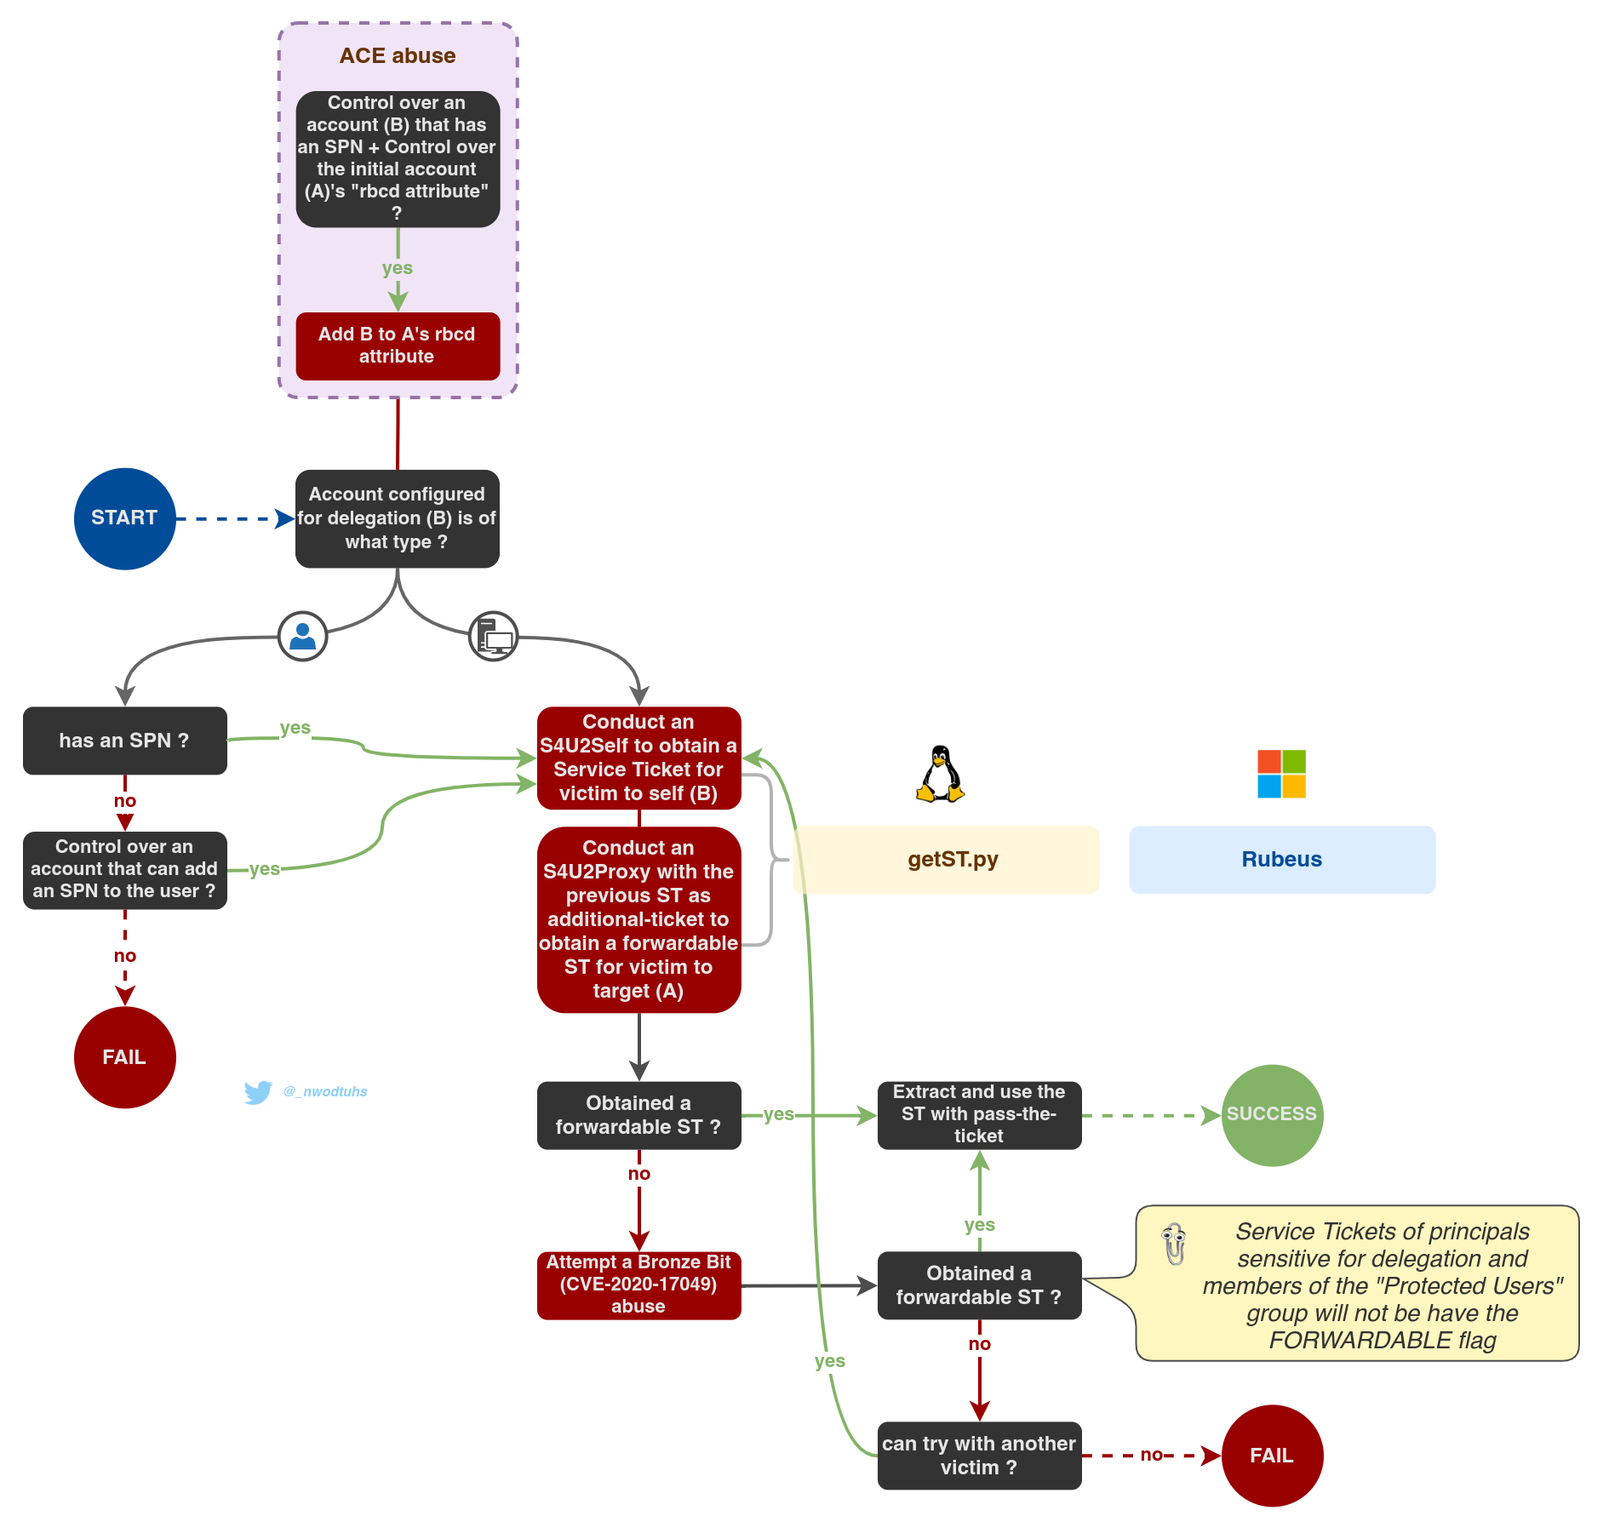
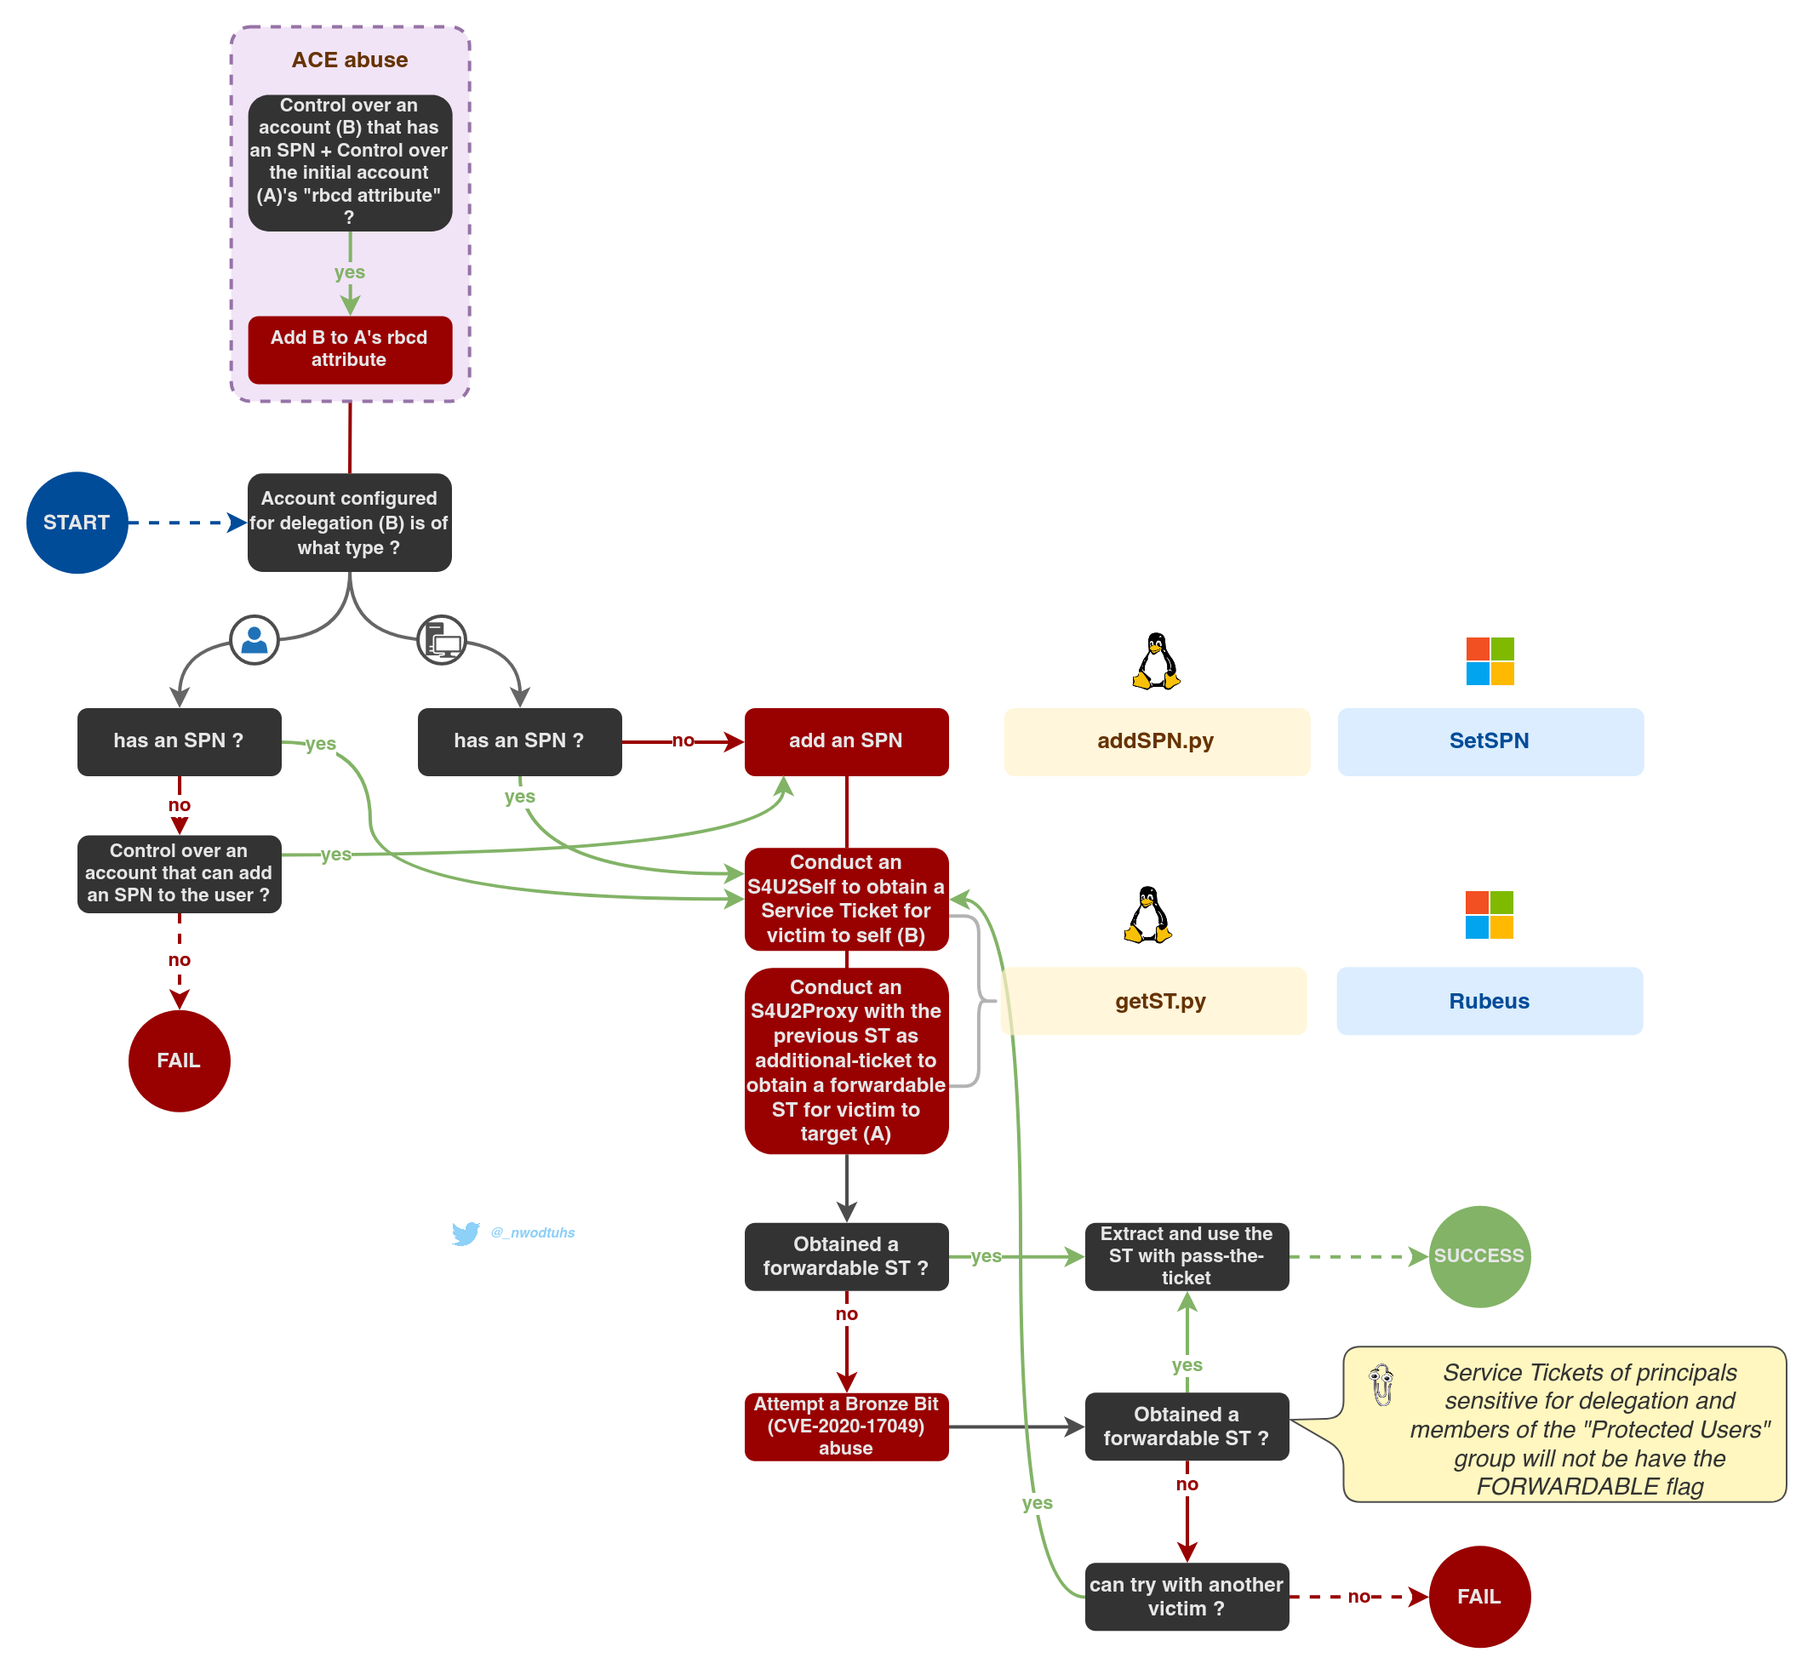
GitBook: [#713] SID History

Changed region(s): [[0.0, 0.0, 0.9989, 0.9912], [0.1561, 0.6814, 0.2185, 0.7124]]

diff --git a/ad/movement/kerberos/README.md b/ad/movement/kerberos/README.md
@@ -23,7 +23,34 @@ Kerberos is an authentication protocol based on tickets. It basically works like
 3. Client uses the ST (Service Ticket) to access a service. The client request to the service is called `AP-REQ`, the service answer is called `AP-REP`.
 4. Both tickets (TGT and ST) usually contain an encrypted PAC (Privilege Authentication Certificate), a set of information that the target service will read to decide if the authentication user can access the service or not (user ID, group memberships and so on).
 
-A Service Ticket (ST) allows access to a specific service. The TGT is used to ask for STs. TGTs can be obtained when supplying a valid secret key. That key can be one of the following (read [more](https://www.sstic.org/media/SSTIC2014/SSTIC-actes/secrets\_dauthentification\_pisode\_ii\_\_kerberos\_cont/SSTIC2014-Article-secrets\_dauthentification\_pisode\_ii\_\_kerberos\_contre-attaque-bordes\_2.pdf)).
+A Service Ticket (ST) allows access to a specific service.&#x20;
+
+{% hint style="info" %}
+When requesting a service ticket, the client (`cname`) specifies the service it wants to obtain access to by supplying it's `sname`, which can be one of 9 types ([RPC 4120 section 6.2](https://www.rfc-editor.org/rfc/rfc4120#section-6.2)). Shortly put, the following formats are supported:
+
+* servicePrincipalName
+* userPrincipalName
+* sAMAccountName
+* sAMAccountName@DomainNetBIOSName
+* sAMAccountName@DomainFQDN
+* DomainNetBIOSName\sAMAccountName
+* DomainFQDN\sAMAccountName
+
+> Note that if you use the _SRV01_ string as a sAMAccountName, and the _SRV01_ account does not exist, and the _SRV01$_ account exists, this name will be treated as a principal name of the _SRV01$_ account.
+>
+> _(_[_swarm.ptsecurity.com_](https://swarm.ptsecurity.com/kerberoasting-without-spns)_)_
+
+On a good note, if the service name is specified as something else than an SPN (i.e. SAN, UPN), Kerberos will basically deliver service tickets if the requested service
+
+* has a trailing `$` in the requested SAN (`sAMAccountName`)
+* or has at least one SPN (`servicePrincipalName`)
+
+If the service ticket is requested through a specific [U2U (User-to-User)](./#user-to-user-authentication) request, then neither of the conditions above will be required, the target ~~service~~ user can be specified by its UPN (`userPrincipalName`).
+
+_(sources:_ [_Twitter_](https://twitter.com/SteveSyfuhs/status/1613956603807690753) _and_ [_\[MS-KILE\] section 3.3.5.1.1_](https://learn.microsoft.com/en-us/openspecs/windows\_protocols/ms-kile/a7ad31b0-37a4-4344-b9a7-01d4d086097e)_)._
+{% endhint %}
+
+The TGT is used to ask for STs. TGTs can be obtained when supplying a valid secret key. That key can be one of the following (read [more](https://www.sstic.org/media/SSTIC2014/SSTIC-actes/secrets\_dauthentification\_pisode\_ii\_\_kerberos\_cont/SSTIC2014-Article-secrets\_dauthentification\_pisode\_ii\_\_kerberos\_contre-attaque-bordes\_2.pdf)).
 
 | Key name (a.k.a. etype) | Details on key calculation                     |
 | ----------------------- | ---------------------------------------------- |
@@ -76,13 +103,13 @@ If an attacker finds himself in a man-in-the-middle position, effectively captur
 [asreqroast.md](asreqroast.md)
 {% endcontent-ref %}
 
-When attackers have a foothold in the domain (i.e. valid domain credentials), they have the (intended) ability to request a service ticket (ST) for any valid SPN (ServicePrincipalName). The ST being encrypted with the service account's NT hash, when that service account's password is weak, it is then possible to crack the ST offline in a an attempt to find the password. This is called Kerberoasting.
+When attackers have a foothold in the domain (i.e. valid domain credentials), they have the (intended) ability to request a service ticket (ST) for any valid SPN (ServicePrincipalName), or SAN (samAccountName). The ST being encrypted with the service account's NT hash, when that service account's password is weak, it is then possible to crack the ST offline in an attempt to find the password. This is called Kerberoasting. On a side note, obtaining a service ticket for a service specified by its SAN in an attempt to Kerberoast the account will only work if the service has at least one SPN.
 
 {% content-ref url="kerberoast.md" %}
 [kerberoast.md](kerberoast.md)
 {% endcontent-ref %}
 
-As it turns out, AS-REQ messages can not only be used to request TGTs but can be invoked to ask for Service Tickets as well. One of the consequences of this is that Kerberoast can be conducted without prior foothold to the domain if the attacker knows the service to target (its SPN or name) as well as an ASREProastable username: [#without-pre-authentication](kerberoast.md#without-pre-authentication "mention").
+As it turns out, AS-REQ messages can not only be used to request TGTs but can be invoked to ask for Service Tickets as well. One of the consequences of this is that Kerberoast can be conducted without prior foothold to the domain if the attacker knows the service to target (its SPN or name) as well as an ASREProastable username:  Kerberoast[#without-pre-authentication](kerberoast.md#without-pre-authentication "mention").
 
 ## Delegations
 

diff --git a/ad/persistence/sid-history.md b/ad/persistence/sid-history.md
@@ -1,5 +1,80 @@
-# 🛠 SID History
+# SID History
+
+## Theory
+
+The **SID (Security Identifier)** is a unique identifier that is assigned to each security principal (e.g. user, group, computer). It is used to identify the principal within the domain and is used to control access to resources.
+
+The **SID history** is a property of a user or group object that allows the object to retain its SID when it is migrated from one domain to another as part of a domain consolidation or restructuring. When an object is migrated to a new domain, it is assigned a new SID in the target domain. The SID history allows the object to retain its original SID, so that access to resources in the source domain is not lost.
+
+This mechanism can also be abused as a means of persistence: adding the SID of a privileged account or group to the SID-History attribute of a controlled account grants rights associated with account/group of which the SID is added.
+
+For instance, the SID of an account with Domain Admin rights can be added to a normal user SID History to grant them Domain Admin rights (the rights would not be granted per say, but the modified account would be treated as domain admin when checking rights).
+
+## Practice
 
 {% hint style="danger" %}
-**This is a work-in-progress**. It's indicated with the 🛠 emoji in the page name or in the category name. Wanna help? Please reach out to me: [@\_nwodtuhs](https://twitter.com/\_nwodtuhs)
+There is currently no way to exploit this technique purely from a distant UNIX-like machine, as it requires some operations on specific Windows processes' memory.
 {% endhint %}
+
+### Pre-Windows 2016
+
+Modifying the SID History attribute of an object can be done using mimikatz, with the [`sid::patch`](https://tools.thehacker.recipes/mimikatz/modules/sid/patch), [`sid::add`](https://tools.thehacker.recipes/mimikatz/modules/sid/add) and [`sid::lookup`](https://tools.thehacker.recipes/mimikatz/modules/sid/lookup) commands.
+
+Mimikatz cannot be used on 2016+ domain controllers for that purpose, due to an error with [`sid::patch`](https://tools.thehacker.recipes/mimikatz/modules/sid/patch) ([https://github.com/gentilkiwi/mimikatz/issues/348](https://github.com/gentilkiwi/mimikatz/issues/348))
+
+{% hint style="warning" %}
+Mimikatz must be launched with at least enough privileges to perform the [`privilege::debug`](https://tools.thehacker.recipes/mimikatz/modules/privilege/debug) command (i.e. domain admin or `SYSTEM`).
+{% endhint %}
+
+```batch
+# Generic command
+mikikatz.exe "privilege::debug" "sid::patch" "sid::add /sam:UserRecievingTheSID /new:SIDOfTheTargetedUserOrGroup"
+
+# Example 1 : Use this command to inject the SID of built-in administrator account to the SID-History attribute of AttackerUser
+mikikatz.exe "privilege::debug" "sid::patch" "sid::add /sam:AttackerUser /new:Builtin\administrators "
+
+# Example 2 : Use sid::lookup to retrieve the SID of an account and inject it to the SID-History attribute of AttackerUser
+mikikatz.exe "sid::lookup /name:InterestingUser"
+mikikatz.exe "privilege::debug" "sid::patch" "sid::add /sam:AttackerUser /new:SIDOfInterestingUser"
+```
+
+### Post-Windows 2016
+
+The only known way to add a SID to the SID History attribute of an account on a Windows domain controller 2016 and above is to use the Powershell module [DSInternals](https://github.com/MichaelGrafnetter/DSInternals). This method also works for Pre-Windows 2016 domain controllers.
+
+{% hint style="danger" %}
+The NTDS service must be stopped at some point and restarted for this procedure to work, which can cause various issues. Proceed with care, avoid production systems.
+{% endhint %}
+
+```powershell
+# Install DSInternals on the domain controller
+Install-Module -Name DSInternals
+
+# Find the account SID you want to inject
+Get-ADUser -Identity $InterestingUser
+
+# Stop the NTDS service
+Stop-service NTDS -force
+
+# Inject the SID into the SID History attribute
+Add-ADDBSidHistory -samaccountname AttackerUser -sidhistory $SIDOfInterestingUser -DBPath C:\Windows\ntds\ntds.dit
+
+# Start the NTDS service
+Start-service NTDS
+```
+
+## Resources
+
+{% embed url="https://learn.microsoft.com/en-us/windows/win32/adschema/a-sidhistory" %}
+
+{% embed url="https://attack.mitre.org/techniques/T1134/005/" %}
+
+{% embed url="https://adsecurity.org/?p=1772" %}
+
+{% embed url="https://forum.winbatch.com/index.php?topic=1545.0" %}
+
+{% embed url="https://learn.microsoft.com/en-us/windows/win32/ad/using-dsaddsidhistory#operational-constraints" %}
+
+{% embed url="https://learn.microsoft.com/en-us/windows/win32/api/ntdsapi/nf-ntdsapi-dsaddsidhistorya" %}
+
+{% embed url="https://secframe.com/blog/a-sidhistory-attack-marching-onto-a-dc/" %}

diff --git a/ad/movement/kerberos/kerberoast.md b/ad/movement/kerberos/kerberoast.md
@@ -6,9 +6,11 @@ description: MITRE ATT&CK™ Sub-technique T1558.003
 
 ## Theory
 
-When asking the KDC (Key Distribution Center) for a Service Ticket (ST), the requesting user needs to send a valid TGT (Ticket Granting Ticket) and the SPN (Service Principal Name) of the service wanted. If the TGT is valid, and if the SPN exists, the KDC sends the ST to the requesting user.
+When asking the KDC (Key Distribution Center) for a Service Ticket (ST), the requesting user needs to send a valid TGT (Ticket Granting Ticket) and the service name (`sname`) of the service wanted. If the TGT is valid, and if the service exists, the KDC sends the ST to the requesting user.
 
-The ST is encrypted with the requested service account's NT hash. If an attacker has a valid TGT and knows a SPN for a service, he can request a ST for this service and crack it offline later in an attempt to retrieve that service account's password.
+Multiple formats are accepted for the `sname` field: servicePrincipalName (SPN), sAMAccountName (SAN), userPrincipalName (UPN), etc. (see [Kerberos tickets](./#tickets)).
+
+The ST is encrypted with the requested service account's NT hash. If an attacker has a valid TGT and knows a service (by its SAN or SPN), he can request a ST for this service and crack it offline later in an attempt to retrieve that service account's password.
 
 In most situations, services accounts are machine accounts, which have very complex, long, and random passwords. But if a service account, with a human-defined password, has a SPN set, attackers can request a ST for this service and attempt to crack it offline. This is Kerberoasting.
 
@@ -23,7 +25,9 @@ Unlike [ASREProasting](asreproast.md), this attack can only be carried out with 
 The [Impacket](https://github.com/SecureAuthCorp/impacket) script [GetUserSPNs](https://github.com/SecureAuthCorp/impacket/blob/master/examples/GetUserSPNs.py) (Python) can perform all the necessary steps to request a ST for a service given its SPN (or name) and valid domain credentials.
 
 {% hint style="info" %}
-you can perform the Kerberoasting attack without knowing any SPN of the target account. But the existence of at least one SPN for the target account will continue to be needed.
+The Kerberoasting attack can be conducted without knowing any SPN of the target account, since a service ticket can be request for as long as the service's SAN (`sAMAccountName`) is known. ([swarm.ptsecurity.com](https://swarm.ptsecurity.com/kerberoasting-without-spns/))
+
+Nota bene, Kerberos can deliver service tickets even if the service has no SPN at all, but then the service's SAN must end with `$`, and in this case it's hard to know for sure if the service's password is defined by a human. Kerberoast attacks usually target user accounts with at least one SPN (`servicePrincipalName`) since they probably have human-defined passwords (sources: [Twitter](https://twitter.com/SteveSyfuhs/status/1613956603807690753) and [\[MS-KILE\] section 3.3.5.1.1](https://learn.microsoft.com/en-us/openspecs/windows\_protocols/ms-kile/a7ad31b0-37a4-4344-b9a7-01d4d086097e)).
 {% endhint %}
 
 ```bash
@@ -123,3 +127,5 @@ Controlling a member of the [Account Operators](../domain-settings/builtin-group
 {% embed url="https://adsecurity.org/?p=2011" %}
 
 {% embed url="https://www.semperis.com/blog/new-attack-paths-as-requested-sts/" %}
+
+{% embed url="https://swarm.ptsecurity.com/kerberoasting-without-spns/" %}

diff --git a/ad/movement/ntlm/relay.md b/ad/movement/ntlm/relay.md
@@ -12,11 +12,11 @@ The NTLM authentication messages are embedded in the packets of application prot
 
 The chart below sums up the expected behavior of cross-protocols relay attacks depending on the mitigations in place ([original here](https://beta.hackndo.com/ntlm-relay/)). All the tests and results listed in the chart were made using [Impacket](https://github.com/SecureAuthCorp/impacket/)'s [ntlmrelayx](https://github.com/SecureAuthCorp/impacket/blob/master/examples/ntlmrelayx.py) (Python).
 
-![](<../../../.gitbook/assets/ntlm\_relau\_mitigation\_chart (1).png>)
+![](../../../.assets/ntlm\_relau\_mitigation\_chart.png)
 
 The following mindmap sums up the overall attack paths of NTLM relay. [Gabriel Prudhomme](https://twitter.com/vendetce) explains how to read it here: [BHIS | Coercions and Relays – The First Cred is the Deepest](https://youtu.be/b0lLxLJKaRs?t=480) (at 08:00).
 
-![](<../../../.gitbook/assets/NTLM relay.png>)
+![](<../../../.gitbook/assets/NTLM relay.drawio.png>)
 
 ### Session signing
 

diff --git a/ad/movement/kerberos/forged-tickets/golden.md b/ad/movement/kerberos/forged-tickets/golden.md
@@ -61,7 +61,7 @@ In these situations, testers can specify all the groups ids when creating the ti
 Another solution to this is to look for a specific user with appropriate rights to impersonate and use [GoldenCopy](https://github.com/Dramelac/GoldenCopy) to generate a command that allows to forge a ticket with specific values corresponding to the target user (sid, group ids, etc.). The values are gathered from a neo4j database.
 {% endhint %}
 
-<figure><img src="../../../../.gitbook/assets/image (6).png" alt=""><figcaption><p>Using GoldenCopy for specific user impersonation</p></figcaption></figure>
+<figure><img src="../../../../.gitbook/assets/image (9).png" alt=""><figcaption><p>Using GoldenCopy for specific user impersonation</p></figcaption></figure>
 
 ## References
 

diff --git a/physical/super-secret-zones/omelette-du-fromage.md b/physical/super-secret-zones/omelette-du-fromage.md
@@ -30,7 +30,7 @@ The technique can be operated as follows:
 7. Adding parsley is optionnal but can greatly improve taste
 8. Savoring the **Omelette du fromage** is then possible.
 
-![Photograph: Vicky Wasik. Video: Serious Eats Video](<../../.gitbook/assets/image (1) (1).png>)
+![Photograph: Vicky Wasik. Video: Serious Eats Video](<../../.gitbook/assets/image (3).png>)
 
 This technique can be combined with the [banana & chocolate cake](banana-and-chocolate-cake.md) one for a whole meal.
 

diff --git a/SUMMARY.md b/SUMMARY.md
@@ -124,7 +124,7 @@
   * [Skeleton key](ad/persistence/skeleton-key.md)
   * [AdminSDHolder](ad/persistence/adminsdholder.md)
   * [Delegation to KRBTGT](ad/persistence/delegation-to-krbtgt.md)
-  * [🛠 SID History](ad/persistence/sid-history.md)
+  * [SID History](ad/persistence/sid-history.md)
   * [🛠 DC Shadow](ad/persistence/dcshadow.md)
   * [🛠 CA Shadow](ad/persistence/ca-shadow.md)
   * [🛠 Access controls](ad/persistence/access-controls.md)

diff --git a/radio/wi-fi/wep.md b/radio/wi-fi/wep.md
@@ -63,7 +63,7 @@ When attacking WEP networks, testers "just" need to gather a sufficient amount (
 airodump-ng --channel $channel --bssid 'TA:RG:ET:BS:SI:DD' --write $output_file $wlan_interface
 ```
 
-![](<../../.gitbook/assets/image (2).png>)
+![](<../../.gitbook/assets/image (1) (1) (1) (1) (1) (1).png>)
 
 While `airodump-ng` is running, testers can launch `aircrack-ng` that will retry cracking the secret key every 5.000 IVs.
 

diff --git a/ad/movement/kerberos/delegations/README.md b/ad/movement/kerberos/delegations/README.md
@@ -86,7 +86,7 @@ Get-ADComputer "Account" -Properties TrustedForDelegation, TrustedToAuthForDeleg
 [constrained.md](constrained.md)
 {% endcontent-ref %}
 
-![](../../../../.gitbook/assets/Kerberos\_delegations-constrained.png)
+![](../../../../.gitbook/assets/Kerberos\_delegations-rbcd.png)
 
 {% content-ref url="rbcd.md" %}
 [rbcd.md](rbcd.md)
